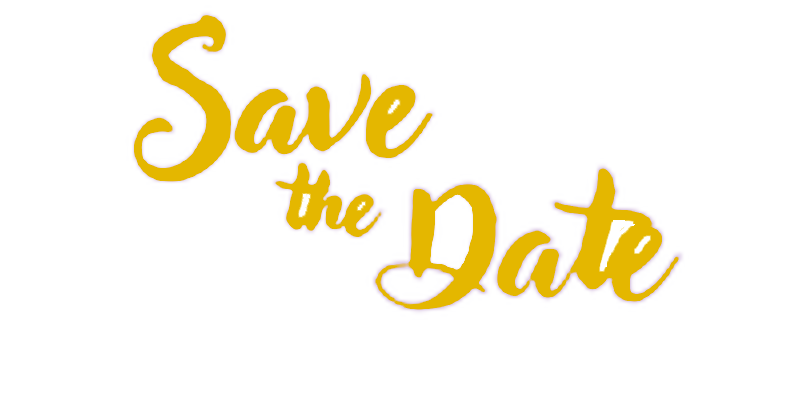
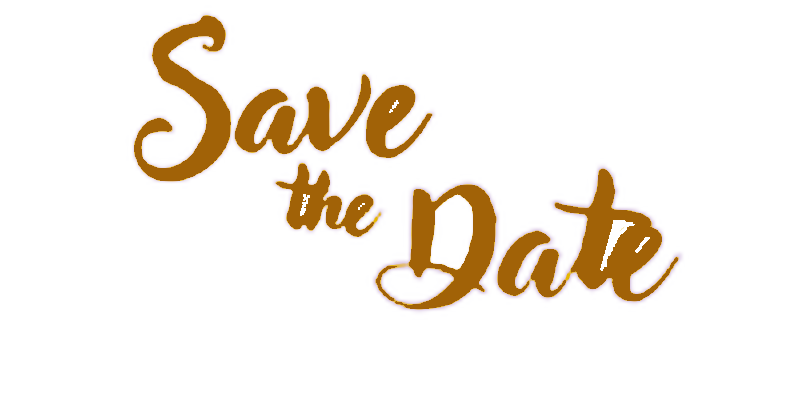
update color

Changed region(s): [[0.4688, 0.42, 0.8438, 0.78], [0.1562, 0.03, 0.5625, 0.45], [0.3438, 0.42, 0.4688, 0.6]]

diff --git a/src/icons/Graphic1.js b/src/icons/Graphic1.js
@@ -16,7 +16,7 @@ const Graphic1 = (props) => (
             <path
               data-name="Path 19940"
               d="M123.6 77.147c-21.131-3.417-16.811-36.873-9.133-49.935 3.439-5.854 7.752-11.153 11.078-17.077.113-.2 3.012-6.906 3.291-6.952-.238.039-.982.26.691 2.225 3.8 4.46 6.73 11.331 9.432 16.547a82.466 82.466 0 0 1 8.191 22.184c1.762 9.161 1.732 19.216-5.072 26.371-5.865 6.166-13.992 8.419-22.2 7.012-1.049-.18-1.521 1.368-.447 1.635a24.732 24.732 0 0 0 30.025-19.677c1.668-9.717-1.2-20.251-4.857-29.159-4.021-9.788-13.189-19.556-14.969-29.869-.115-.657-1.041-.546-1.215 0-5.062 15.766-19.6 26.776-21.441 43.783-1.359 12.554.863 32.294 16.189 34.509 1.031.15 1.49-1.426.437-1.597z"
-              fill="#f59e0b"
+              fill="#a16207"
             />
           </g>
         </g>
@@ -25,7 +25,7 @@ const Graphic1 = (props) => (
             <path
               data-name="Path 19941"
               d="M126.554 44.675c-.742 11.335-.289 22.691-.73 34.032a.776.776 0 0 0 1.551 0c-.238-11.344.416-22.687-.123-34.032a.349.349 0 0 0-.698 0z"
-              fill="#f59e0b"
+              fill="#a16207"
             />
           </g>
         </g>
@@ -34,7 +34,7 @@ const Graphic1 = (props) => (
             <path
               data-name="Path 19942"
               d="M122.498 77.362c-12.5 1.9-23.795-2.773-31.963-12.353-6.254-7.337-9.213-16.3-13.346-24.836a49.915 49.915 0 0 0-5.734-9.433c-.389-.487-3.314-3.542-3.3-3.6.3-1.482 6.846-1.7 7.834-1.775 12.283-.89 23.766 1.484 33.027 9.958a.678.678 0 0 0 .957-.959C98.348 22.335 81.094 22.51 65.752 25.406a.572.572 0 0 0-.252.952c11.787 10.024 13.535 27.056 23.08 38.878 8.221 10.186 21.059 16.777 34.2 13.133.661-.182.366-1.105-.282-1.007z"
-              fill="#f59e0b"
+              fill="#a16207"
             />
           </g>
         </g>
@@ -43,7 +43,7 @@ const Graphic1 = (props) => (
             <path
               data-name="Path 19943"
               d="M97.23 52.903c4.451 9.5 7.713 18.951 18.381 22.917.549.2.939-.7.4-.957-9.686-4.562-13.8-13.013-18.482-22.137-.1-.201-.393-.024-.299.177z"
-              fill="#f59e0b"
+              fill="#a16207"
             />
           </g>
         </g>
@@ -52,7 +52,7 @@ const Graphic1 = (props) => (
             <path
               data-name="Path 19944"
               d="M146.519 38.424c7.373-10.492 19.7-16.417 32.51-16.771 4.811-.133 2.406.886.521 3.812a45.339 45.339 0 0 0-4.379 9.458c-3 8.446-4.586 17.489-9.686 25.043-7 10.365-17.9 16.008-30.039 17.615-.848.112-.9 1.435 0 1.375a41.643 41.643 0 0 0 30.8-17.133c8.889-12.447 8.049-29.3 18.867-40.618a.773.773 0 0 0-.541-1.305c-14.779.928-31.346 3.687-39.053 17.938a.581.581 0 0 0 1 .586z"
-              fill="#f59e0b"
+              fill="#a16207"
             />
           </g>
         </g>
@@ -61,7 +61,7 @@ const Graphic1 = (props) => (
             <path
               data-name="Path 19945"
               d="M140.214 74.963a41.791 41.791 0 0 0 11.295-10.5c3.92-5.226 6-11.448 9.605-16.855.17-.252-.227-.567-.426-.329-3.467 4.183-5.307 9.273-8.2 13.829a59.87 59.87 0 0 1-12.494 13.569c-.163.133.046.395.22.286z"
-              fill="#f59e0b"
+              fill="#a16207"
             />
           </g>
         </g>
@@ -70,7 +70,7 @@ const Graphic1 = (props) => (
             <path
               data-name="Path 19946"
               d="M65.616 79.627c5.318-8.747 8.92-17.684 18.373-22.859.324-.178.039-.626-.285-.486-9.348 4.077-15.621 13.661-19.346 22.815-.3.74.868 1.174 1.258.53z"
-              fill="#f59e0b"
+              fill="#a16207"
             />
           </g>
         </g>
@@ -79,7 +79,7 @@ const Graphic1 = (props) => (
             <path
               data-name="Path 19947"
               d="M188.14 79.096c-3.725-9.156-9.994-18.738-19.346-22.815-.322-.141-.609.307-.283.485 9.451 5.175 13.053 14.111 18.373 22.859.387.638 1.564.219 1.256-.529z"
-              fill="#f59e0b"
+              fill="#a16207"
             />
           </g>
         </g>
@@ -88,7 +88,7 @@ const Graphic1 = (props) => (
             <path
               data-name="Path 19948"
               d="M70.854 78.976c2.576-1.578 3.279-5.931 4.832-8.5a25.707 25.707 0 0 1 10.166-9.817c.523-.271.063-1.039-.461-.787a26.2 26.2 0 0 0-9.842 8.413c-1.854 2.547-5.686 7.323-4.867 10.623a.118.118 0 0 0 .172.068z"
-              fill="#f59e0b"
+              fill="#a16207"
             />
           </g>
         </g>
@@ -97,7 +97,7 @@ const Graphic1 = (props) => (
             <path
               data-name="Path 19949"
               d="M166.027 60.794c7.713 2.847 12.387 11.061 16.037 17.892.279.527 1.068.159.938-.4-1.049-4.39-4.166-8.026-7.086-11.337-2.658-3.015-5.51-6.278-9.65-7.021a.45.45 0 0 0-.239.866z"
-              fill="#f59e0b"
+              fill="#a16207"
             />
           </g>
         </g>
@@ -106,7 +106,7 @@ const Graphic1 = (props) => (
             <path
               data-name="Path 19950"
               d="M57.713 76.42c2.918 0 2.922-4.536 0-4.536s-2.924 4.536 0 4.536z"
-              fill="#f59e0b"
+              fill="#a16207"
             />
           </g>
         </g>
@@ -115,7 +115,7 @@ const Graphic1 = (props) => (
             <path
               data-name="Path 19951"
               d="M62.608 66.622c3.018 0 3.023-4.691 0-4.691s-3.023 4.691 0 4.691z"
-              fill="#f59e0b"
+              fill="#a16207"
             />
           </g>
         </g>
@@ -124,7 +124,7 @@ const Graphic1 = (props) => (
             <path
               data-name="Path 19952"
               d="M70.34 57.083c3.094 0 3.1-4.806 0-4.806s-3.094 4.806 0 4.806z"
-              fill="#f59e0b"
+              fill="#a16207"
             />
           </g>
         </g>
@@ -133,7 +133,7 @@ const Graphic1 = (props) => (
             <path
               data-name="Path 19953"
               d="M180.525 53.124c-.105-2.351-3.553-2.973-4.215-.57a2.146 2.146 0 1 0 4.215.57z"
-              fill="#f59e0b"
+              fill="#a16207"
             />
           </g>
         </g>
@@ -142,7 +142,7 @@ const Graphic1 = (props) => (
             <path
               data-name="Path 19954"
               d="M186.602 63.613c2.818 0 2.824-4.38 0-4.38s-2.822 4.38 0 4.38z"
-              fill="#f59e0b"
+              fill="#a16207"
             />
           </g>
         </g>
@@ -151,7 +151,7 @@ const Graphic1 = (props) => (
             <path
               data-name="Path 19955"
               d="M192.022 74.109a2.277 2.277 0 1 0-2.277-2.277 2.312 2.312 0 0 0 2.277 2.277z"
-              fill="#f59e0b"
+              fill="#a16207"
             />
           </g>
         </g>
@@ -160,7 +160,7 @@ const Graphic1 = (props) => (
             <path
               data-name="Path 19956"
               d="M102.311 15.528a2.4 2.4 0 1 0-2.4-2.4 2.442 2.442 0 0 0 2.4 2.4z"
-              fill="#f59e0b"
+              fill="#a16207"
             />
           </g>
         </g>
@@ -169,7 +169,7 @@ const Graphic1 = (props) => (
             <path
               data-name="Path 19957"
               d="M152.77 11.412c-.084-.045-.17-.091-.254-.138a2.462 2.462 0 0 0-3.3.867 2.431 2.431 0 0 0 .863 3.3l.262.122a2.476 2.476 0 0 0 3.291-.863 2.432 2.432 0 0 0-.862-3.288z"
-              fill="#f59e0b"
+              fill="#a16207"
             />
           </g>
         </g>
@@ -178,7 +178,7 @@ const Graphic1 = (props) => (
             <path
               data-name="Path 19958"
               d="M66.452 26.546c4.387 1.507 8.4 2.954 12.236 5.662 3.533 2.5 6.768 5.366 10.5 7.571.33.194.744-.3.424-.548-6.84-5.3-13.865-12.954-23.047-13.542-.511-.028-.556.705-.113.857z"
-              fill="#f59e0b"
+              fill="#a16207"
             />
           </g>
         </g>
@@ -187,7 +187,7 @@ const Graphic1 = (props) => (
             <path
               data-name="Path 19959"
               d="M67.684 27.241c2.26 2.748 5.7 4.616 8.234 7.177a64.06 64.06 0 0 1 7.336 9.326c.154.228.594.091.477-.2a32.308 32.308 0 0 0-6.316-9.881c-2.377-2.6-5.9-6.125-9.465-6.874a.274.274 0 0 0-.266.452z"
-              fill="#f59e0b"
+              fill="#a16207"
             />
           </g>
         </g>
@@ -196,7 +196,7 @@ const Graphic1 = (props) => (
             <path
               data-name="Path 19960"
               d="M69.246 26.503c7.471-.56 13.857 2.018 20.809 4.236a.37.37 0 0 0 .283-.673c-6.539-3.288-13.834-5.774-21.158-4.058-.27.06-.217.517.066.495z"
-              fill="#f59e0b"
+              fill="#a16207"
             />
           </g>
         </g>
@@ -205,7 +205,7 @@ const Graphic1 = (props) => (
             <path
               data-name="Path 19961"
               d="M181.975 20.957c-7.375 1.322-14.5 8.094-18.516 14.07-.256.379.346.853.639.493a46.118 46.118 0 0 1 8.629-8.332c3.037-2.18 6.471-3.412 9.629-5.328a.5.5 0 0 0-.381-.903z"
-              fill="#f59e0b"
+              fill="#a16207"
             />
           </g>
         </g>
@@ -214,7 +214,7 @@ const Graphic1 = (props) => (
             <path
               data-name="Path 19962"
               d="M181.967 21.139c-7.961-.9-17.633 3.946-22.859 9.742-.3.337.113.981.518.67a51.4 51.4 0 0 1 9.844-6.4c4.115-1.88 8.279-2.274 12.586-3.369.382-.095.259-.605-.089-.643z"
-              fill="#f59e0b"
+              fill="#a16207"
             />
           </g>
         </g>
@@ -223,7 +223,7 @@ const Graphic1 = (props) => (
             <path
               data-name="Path 19963"
               d="M181.977 21.625c-5.35 2.272-9.609 7.785-11.57 13.094-.18.485.559.762.816.343a49.657 49.657 0 0 1 5.2-7.223c1.854-2.083 4.025-3.689 6.053-5.575.367-.341-.099-.806-.499-.639z"
-              fill="#f59e0b"
+              fill="#a16207"
             />
           </g>
         </g>
@@ -232,7 +232,7 @@ const Graphic1 = (props) => (
             <path
               data-name="Path 19964"
               d="M128.467 2.341c-1.8 9.338-7.443 16.935-9.893 25.954-.141.514.639.88.887.373 3.914-8.076 9.311-17.079 9.426-26.271.001-.233-.374-.297-.42-.056z"
-              fill="#f59e0b"
+              fill="#a16207"
             />
           </g>
         </g>
@@ -241,7 +241,7 @@ const Graphic1 = (props) => (
             <path
               data-name="Path 19965"
               d="M128.568 3.404a96.824 96.824 0 0 0-1.354 30.213.407.407 0 0 0 .813 0c.578-10 .756-20.135.98-30.153a.225.225 0 0 0-.439-.06z"
-              fill="#f59e0b"
+              fill="#a16207"
             />
           </g>
         </g>
@@ -250,7 +250,7 @@ const Graphic1 = (props) => (
             <path
               data-name="Path 19966"
               d="M128.275 2.186c-.371 8.6 2.357 18.429 6.5 25.933a.4.4 0 0 0 .727-.306c-1.311-4.249-2.953-8.36-4.033-12.683-1.074-4.3-1.619-8.71-2.68-13.014a.263.263 0 0 0-.514.07z"
-              fill="#f59e0b"
+              fill="#a16207"
             />
           </g>
         </g>
@@ -259,7 +259,7 @@ const Graphic1 = (props) => (
             <path
               data-name="Path 19967"
               d="M128.465 3.599c.125 3.383 1.838 6.624 3.207 9.679a67.968 67.968 0 0 0 6.283 11.378.378.378 0 0 0 .652-.381c-1.613-3.768-3.434-7.442-5.111-11.182-1.439-3.207-2.436-6.881-4.617-9.666-.137-.167-.426-.024-.414.172z"
-              fill="#f59e0b"
+              fill="#a16207"
             />
           </g>
         </g>
@@ -267,7 +267,7 @@ const Graphic1 = (props) => (
       <path
         data-name="Line 7"
         fill="none"
-        stroke="#f59e0b"
+        stroke="#a16207"
         strokeLinecap="round"
         strokeLinejoin="round"
         strokeMiterlimit={10}

diff --git a/src/components/Section3.js b/src/components/Section3.js
@@ -128,12 +128,12 @@ const Section3 = () => {
         <Shape1
           className="absolute top-[108px] right-[-105px] rotate-45 -z-10"
           height="300"
-          fill="#a16207"
+          fill="#ca8a04"
         />
         <Shape1
           className="absolute bottom-[109px] left-[-105px] rotate-180 -z-10"
           height="300"
-          fill="#a16207"
+          fill="#ca8a04"
         />
       </div>
 
@@ -145,19 +145,19 @@ const Section3 = () => {
         >
           <path
             d="M1440 0v300c-151.036-6.536-302.071-13.071-413-10-110.929 3.071-181.75 15.75-297 23s-274.929 9.071-404 6c-129.071-3.071-227.536-11.036-326-19V0Z"
-            fill="#dc2626"
+            fill="#ffedd5"
             fillOpacity={0.4}
             className="transition-all duration-300 ease-in-out delay-150 path-0"
           />
           <path
             d="M1440 0v200c-146.643 12.964-293.286 25.929-412 15-118.714-10.929-209.5-45.75-303-49s-189.714 25.071-311 36c-121.286 10.929-267.643 4.464-414-2V0Z"
-            fill="#b91c1c"
+            fill="#fed7aa"
             fillOpacity={0.53}
             className="transition-all duration-300 ease-in-out delay-150 path-1"
           />
           <path
             d="M1440 0v100c-112.071 11-224.143 22-355 15S804.5 83 675 79 436.143 92 327 99s-218.071 4-327 1V0Z"
-            fill="#991b1b"
+            fill="#fdba74"
             className="transition-all duration-300 ease-in-out delay-150 path-2"
           />
         </svg>

diff --git a/src/components/Section5.js b/src/components/Section5.js
@@ -108,12 +108,12 @@ const Section5 = () => {
       <Shape1
         className="absolute top-[108px] right-[-105px] rotate-45 z-[0]"
         height="300"
-        fill="#a16207"
+        fill="#ca8a04"
       />
       <Shape1
         className="absolute bottom-[109px] left-[-105px] rotate-180 z-[0]"
         height="300"
-        fill="#a16207"
+        fill="#ca8a04"
       />
     </section>
   );

diff --git a/src/components/Section10.js b/src/components/Section10.js
@@ -176,12 +176,12 @@ const Section10 = () => {
       <Shape1
         className="absolute top-[108px] right-[-105px] rotate-45 z-[0]"
         height="300"
-        fill="#a16207"
+        fill="#ca8a04"
       />
       <Shape1
         className="absolute bottom-[109px] left-[-105px] rotate-180 z-0"
         height="300"
-        fill="#a16207"
+        fill="#ca8a04"
       />
     </section>
   );

diff --git a/src/components/Section4.js b/src/components/Section4.js
@@ -49,12 +49,12 @@ const Section4 = () => {
       <Shape1
         className="absolute top-[108px] right-[-105px] rotate-45 z-[0]"
         height="300"
-        fill="#a16207"
+        fill="#ca8a04"
       />
       <Shape1
         className="absolute bottom-[109px] left-[-105px] rotate-180 z-0"
         height="300"
-        fill="#a16207"
+        fill="#ca8a04"
       />
     </section>
   );

diff --git a/src/components/Section9.js b/src/components/Section9.js
@@ -45,12 +45,12 @@ const Section9 = () => {
       <Shape1
         className="absolute top-[108px] right-[-105px] rotate-45 z-[0]"
         height="300"
-        fill="#a16207"
+        fill="#ca8a04"
       />
       <Shape1
         className="absolute bottom-[109px] left-[-105px] rotate-180 z-0"
         height="300"
-        fill="#a16207"
+        fill="#ca8a04"
       />
     </section>
   );
